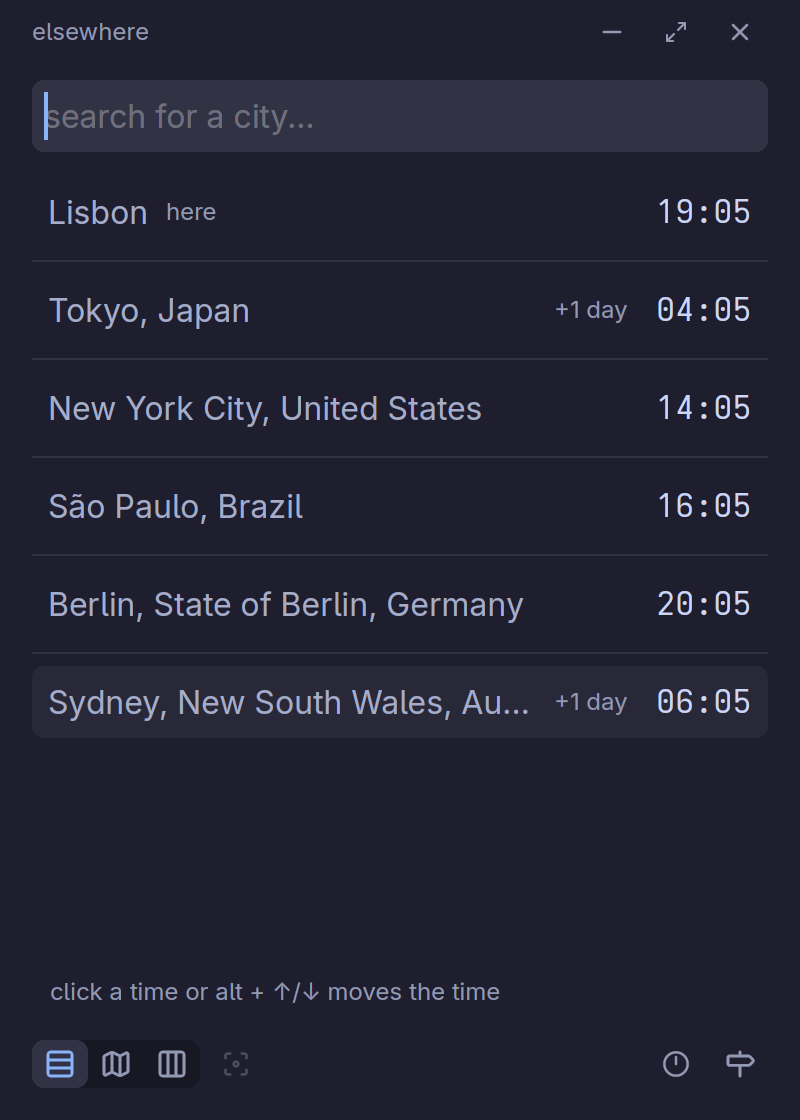
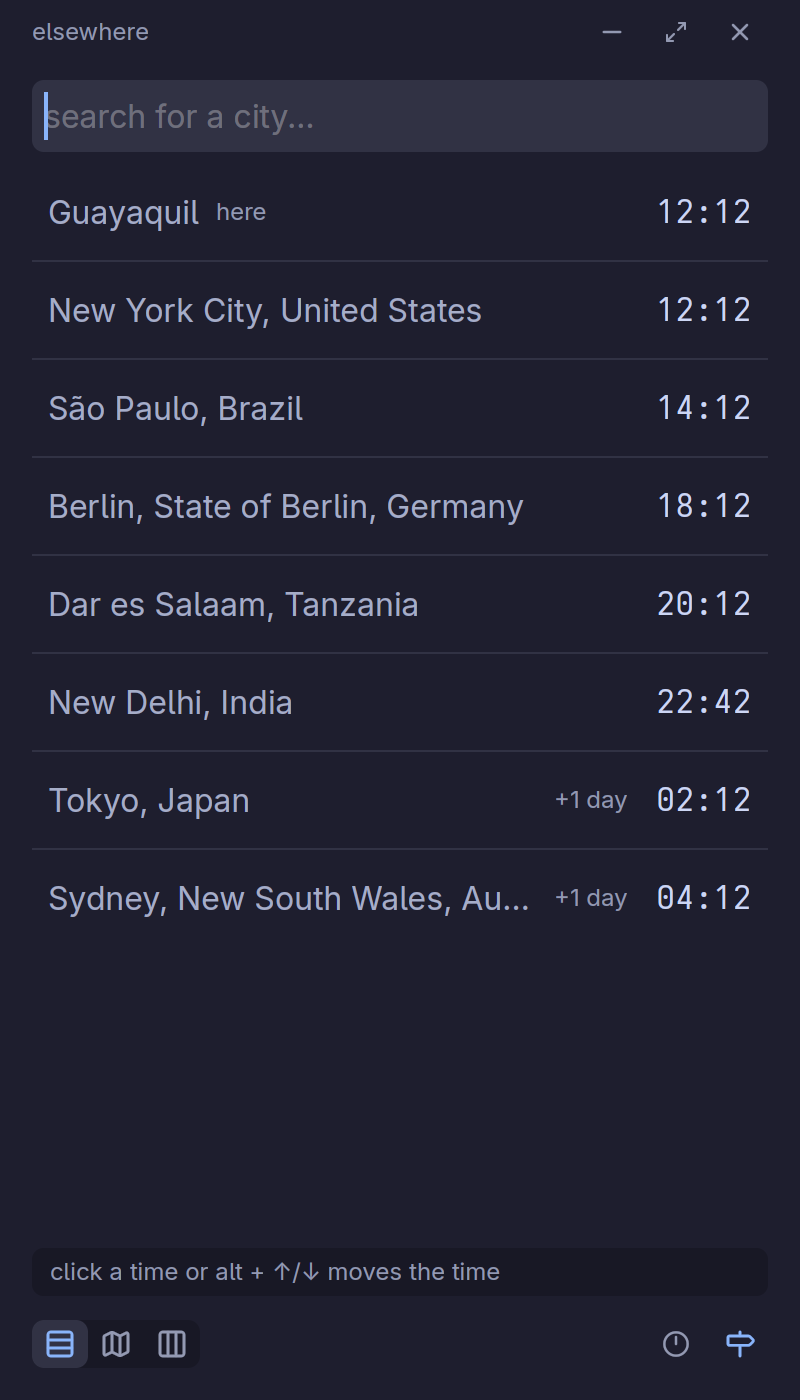
build: ready 1.0.1 for app stores
App ID is now dev.insomnio.elsewhere; adds AppStream metainfo.
Screenshots retaken taller, with a grid view one.

diff --git a/src/main.rs b/src/main.rs
@@ -22,7 +22,7 @@ mod vendor;
 mod zones;
 
 /// Wayland app id and X11 class; `assets/app/<APP_ID>.desktop` is named after it.
-const APP_ID: &str = "io.github.insomniodev.elsewhere";
+const APP_ID: &str = "dev.insomnio.elsewhere";
 
 /// Tall, to suit the list; the map scrolls sideways instead. Under 600 so it
 /// fits a 1200-pixel display at 2x.
